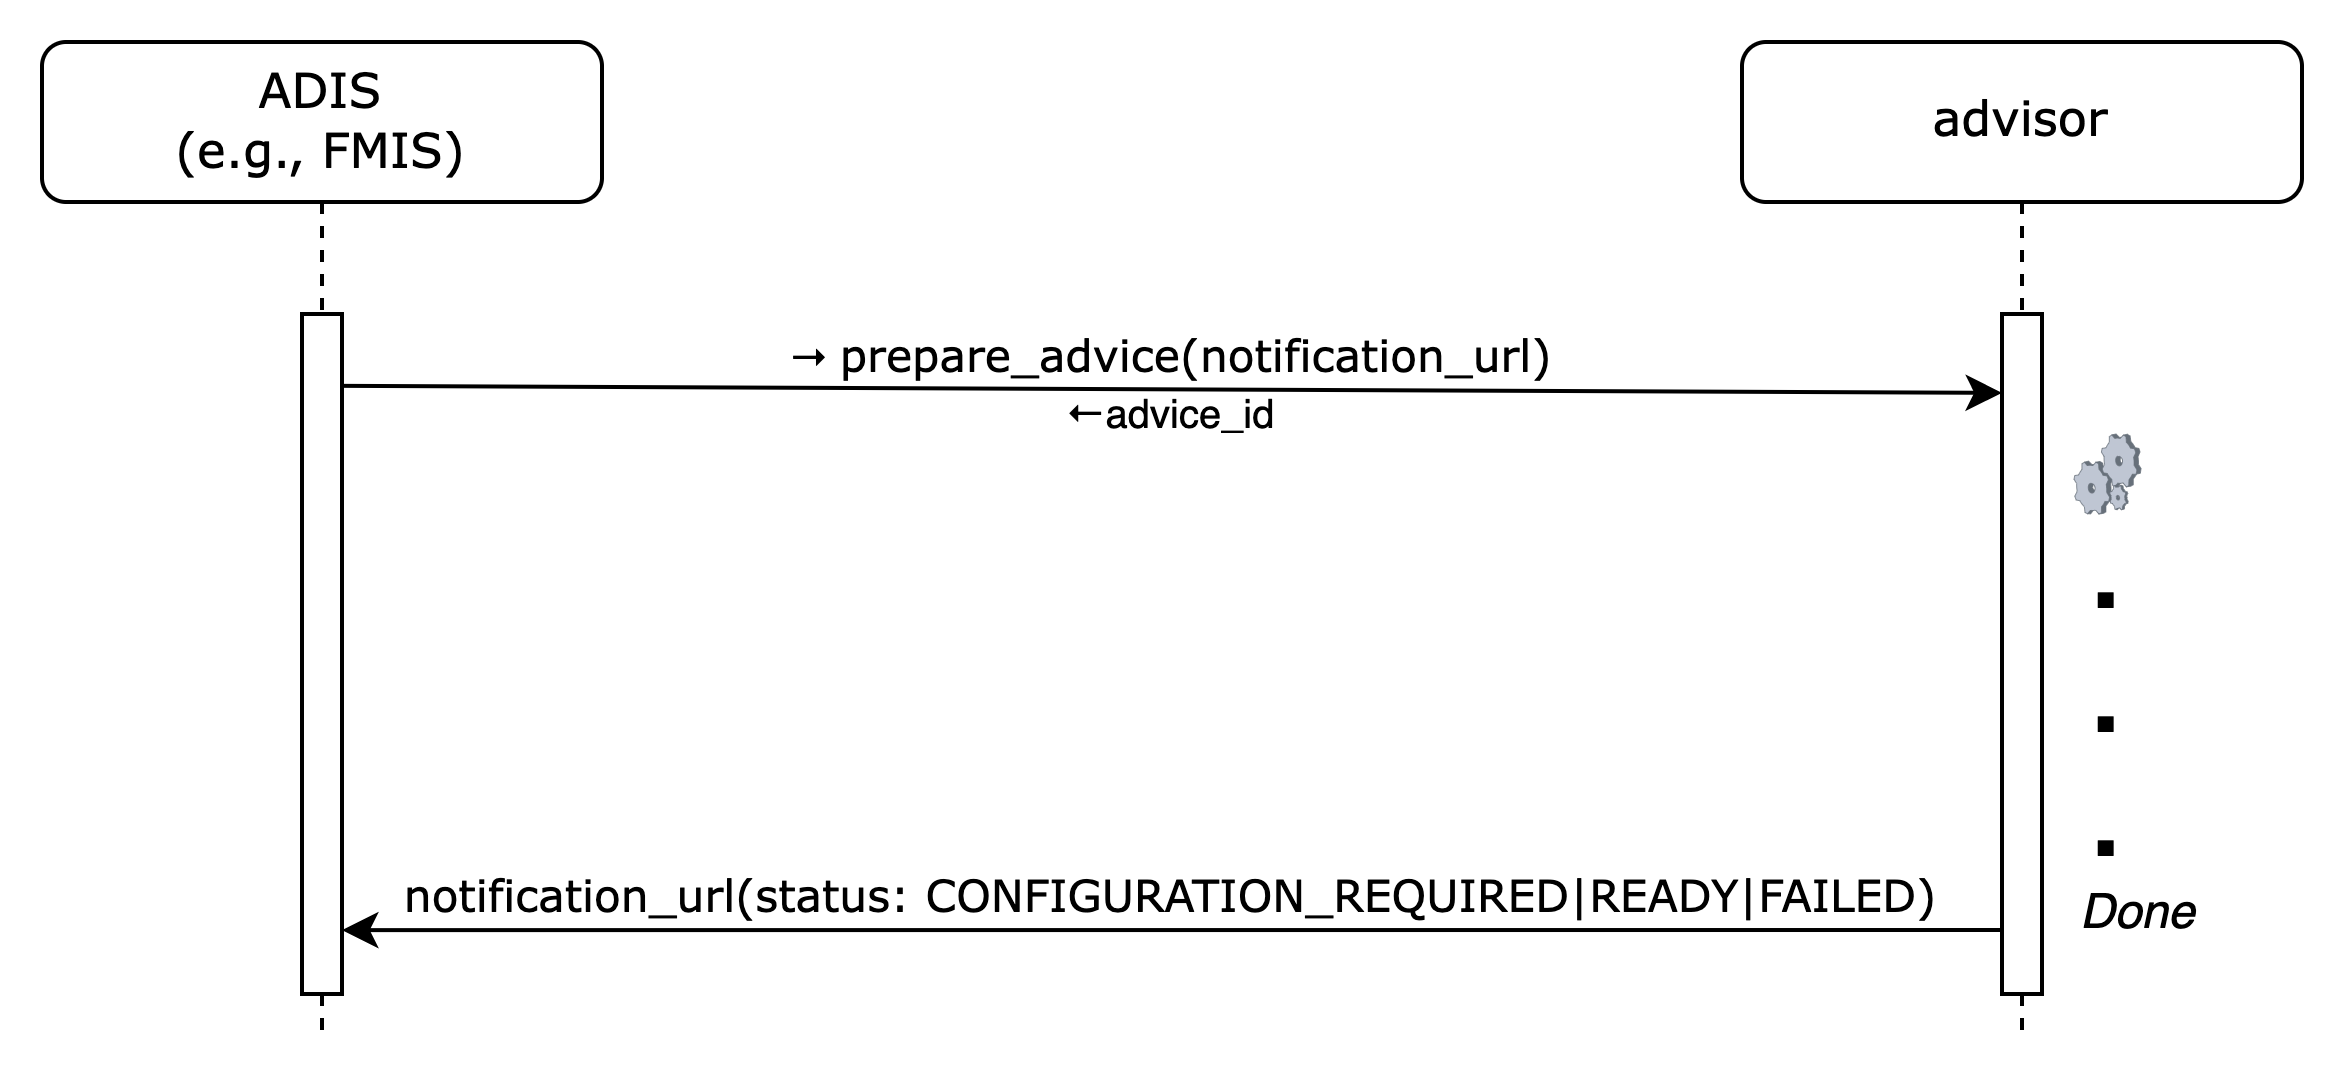
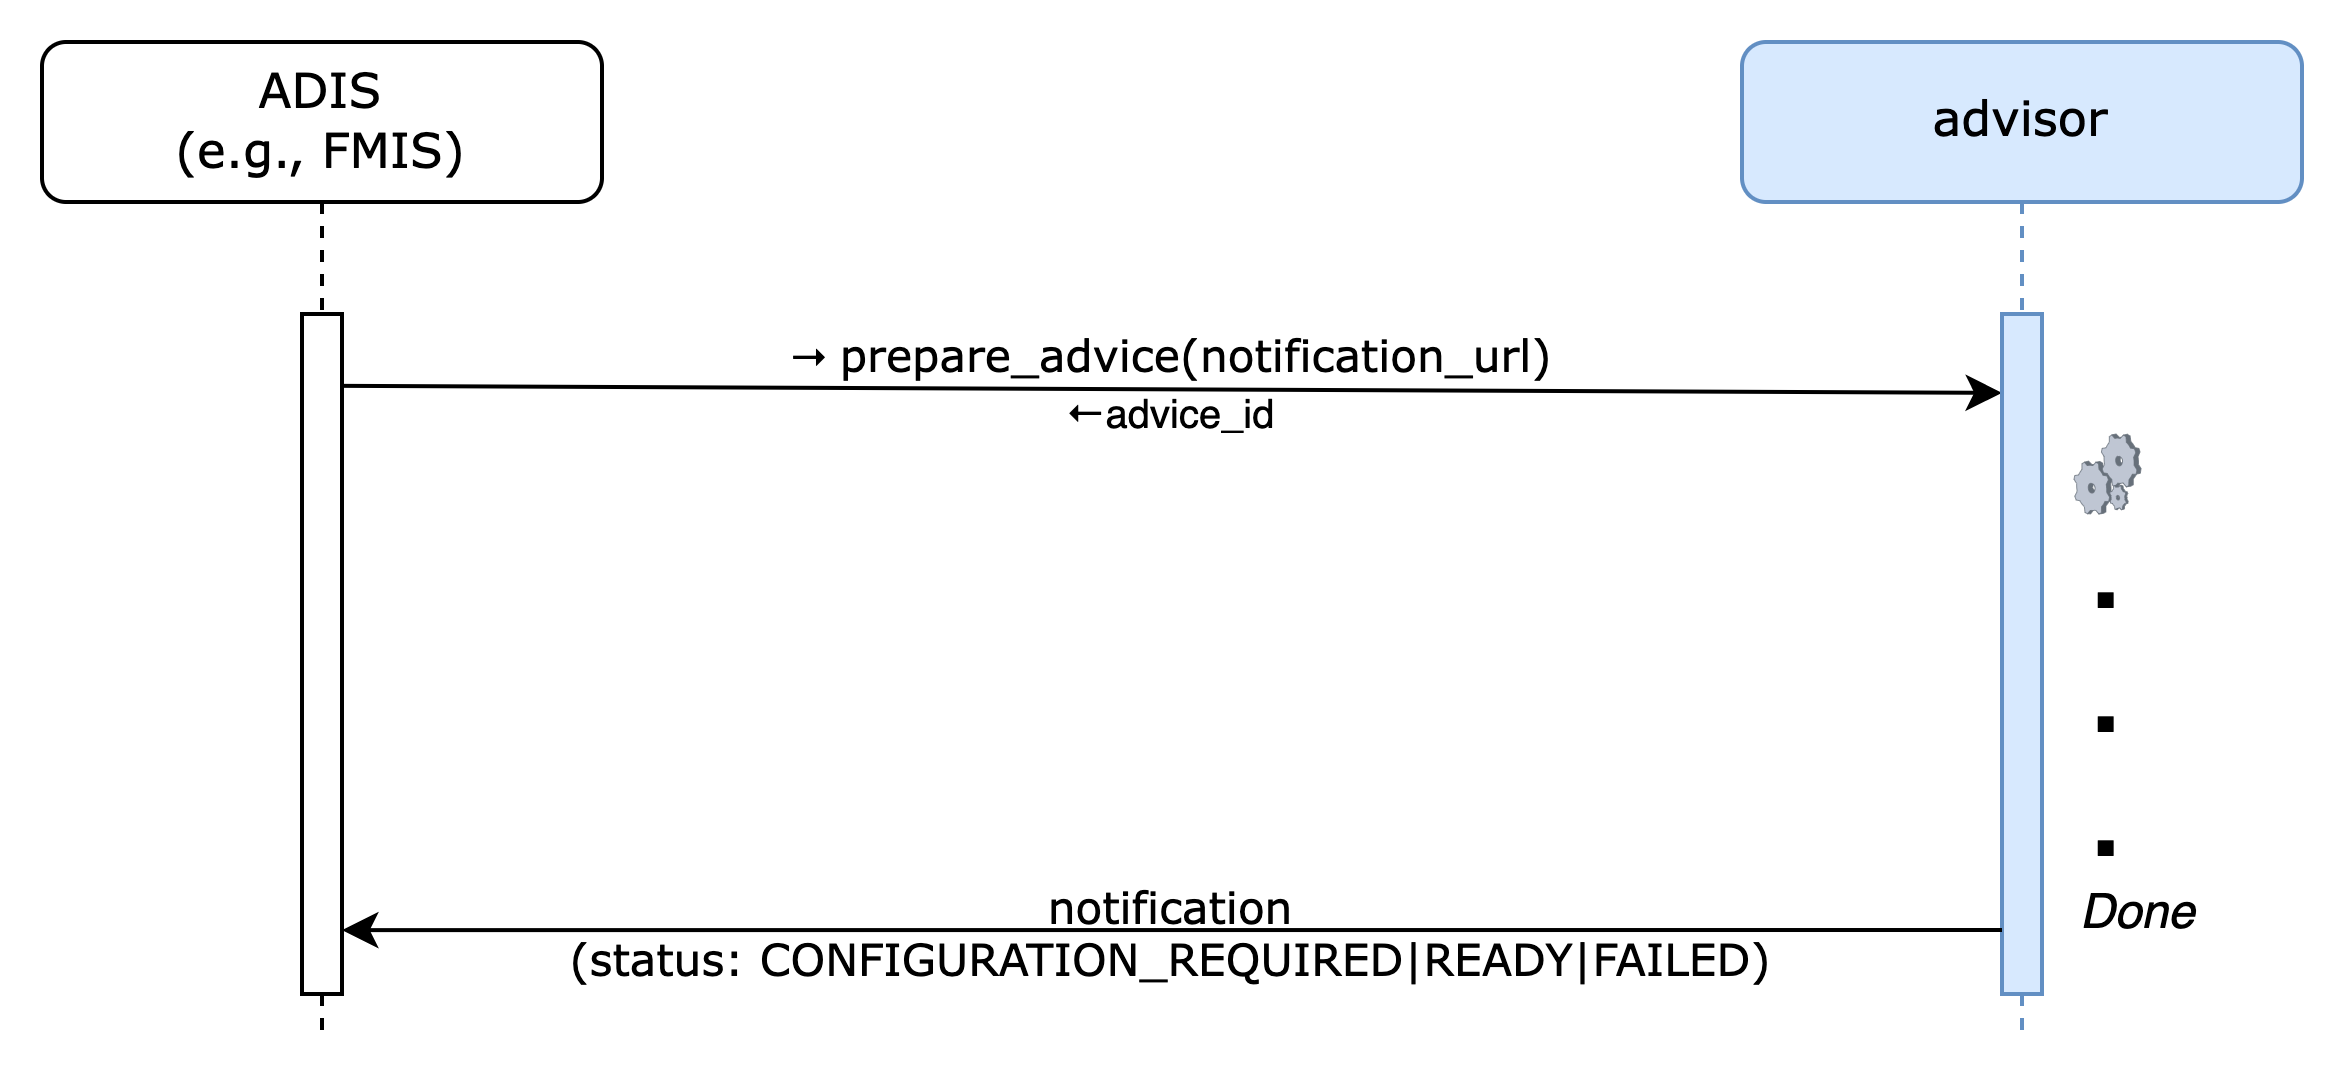
Advisor Lifecycle section

Changed region(s): [[0.1557, 0.276, 0.872, 0.9507], [0.7163, 0.0307, 0.9966, 0.2147]]

diff --git a/doc.html b/doc.html
@@ -46,13 +46,35 @@ both service consumers or service provider implementors:
     - GeoJSON specifications (<a href="https://geojson.org/">https://geojson.org/</a>)
     - GeoPackage specifications (<a href="https://www.geopackage.org/">https://www.geopackage.org/</a>)
 </pre>
-<h2>4 fertilisation_advisor Usage Scenarios</h2>
+<h2>4 The Advisor Lifecycle</h2>
 
-The following sections describe some aspects of the use of fertilisation_advisor. The examples were chosen to illustrate the basic operation of applications using fertilisation_advisor, not to limit what fertilisation_advisor may be used for.
+fertilisation_advisor is an "advisor-type" service template. All such services follow a common pattern that typically (but not always) involves the ATLAS Equipment Centre, and an ATLAS-enabled Digital Information System such as an FMIS, as seen below:
 
 <img src="doc/advisor_pattern.png" style="width: 420px" />
 
-<h2>5 Service Template API Overview</h2>
+The high level flow is: prepare an advice for a farming operation => submit a task with the advice and the equipment that it should be carried with => retrieve the application map from the advice just before sending it to the equipment => carry out the task with the equipment on the field => retrieve the "as applied" information from the equipment and record it on the field_data service
+
+The ADIS will usually have a mirror copy of the fields, preloaded from a field_data service.
+
+If the monitoring functionality is supported by an advisor, in a setup phase, the ADIS may activate the monitoring of a field, providing a notification url. In the operation phase, the ADIS may either poll for recommendations or receive notifications with recommendations from the advisor (see Dynamic Behaviour). The advisor service must be paired with the requested field's field_data service in order to retrieve the field's boundaries and any other information that may be relevant (crop, previous applications, ...)
+
+The ADIS may use recommendations (recommendations are specific to the type of advisor) as the basis of an advice preparation or it may manually decide to prepare an advice based on its own criteria (2).
+
+Depending on service implementations, advice preparations could take milliseconds to hours (in some cases, weeks) to complete. The ADIS will have to either poll the advisor or register a notification_url in the preparation request to determine when an advice is completed and a task may be created (see Dynamic Behaviour).
+
+As an advice is ready, the ADIS will usually let the user select an equipment out of the ones he owns (3) and then submits a task to the ATLAS Equipment Centre, with the advice and the selected equipment as parameters (4). The task is recorded by the ATLAS Equipment Centre but may take an unknown amount of time before it is actually carried out.
+
+When the ATLAS Equipment Centre determines that a task is ready to be executed (available worker and equipment), it retrieves the application map (5), just before starting the task, giving the advisor the opportunity to update potentially pre-computed maps taking latest information (weather, new applications, ...) into account. That information is sent to the tractor (6), and eventually, "as applied" information is sent back (7) to the ATLAS Equipment Centre which then records the application on the appropriate field_data service (8). Note that results may be partial, resulting in multiple applications for a single task.
+
+When the task is finished, it is marked as completed, and a notification is sent back to the ADIS (9), but only if it provided a notification URL. Note that when a notification URL is provided with the task, notifications will also be changed for any status change.
+
+<h2>5 fertilisation_advisor Usage Scenarios</h2>
+
+fertilisation_advisor services are used for soil fertilisation such as lime, potassium, phosphorous, nitrogen, ...
+
+Sophisticated fertilisation_advisor services may also optimize for multiple inter-dependent applications. Most fertilisers contain varying amount of different nutrients that overlap; for instance a phosphorous-rich fertiliser often contains non negligible amounts of potassium and nitrogen. So when an NPK cycle is planned, the ADIS has the option of three application requests within a single advice, each application having a different product and nutrients. The fertilisation_advisor service may then optimize the amounts of product used in each application so as to best satisfy the overall combined nutrient requirements.
+
+<h2>6 Service Template API Overview</h2>
 
 This section provides a very high-level summary of the fertilisation_advisor API:
 <pre>
@@ -83,11 +105,11 @@ Only the most meaningful parameters are discussed in this document. Please refer
 
 fertilisation_advisor services are not required to handle intense traffic from a single client, such as the one that may result from being directly invoked on user interface interactions in an FMIS, for instance. Implementors MAY generate a 429 TOO MANY REQUESTS error response if the rate of calls exceed some pre-defined quota.
 
-<h2>5.1 Nutrient Monitoring Endpoints</h2>
+<h2>6.1 Nutrient Monitoring Endpoints</h2>
 
 These functions relate to registering, and unregistering fields for which alerts are desired. fertilisation_advisor services may provide the means to actively monitor fields and generate alerts when nutrient applications are recommended.
 
-<h2>5.1.1 Monitor Field</h2>
+<h2>6.1.1 Monitor Field</h2>
 
 This endpoint registers a field to be monitored for one or more nutrient requirements by the fertilisation_advisor.
 <pre>
@@ -104,7 +126,7 @@ NOTE: a fertilisation_advisor service MAY not support field monitoring. In that 
 
 See Nutrient Monitoring for details on the monitoring notification process.
 
-<h2>5.1.2 Get monitoring recommendations</h2>
+<h2>6.1.2 Get monitoring recommendations</h2>
 
 This endpoint returns the monitoring recommendations for a field, that is whether a fertilisation_advisor proactively recommends a fertilisation operation to be performed on a monitored field.
 <pre>
@@ -120,7 +142,7 @@ The status may be one of IN_PROGRESS, CONFIGURATION_REQUIRED, READY, FAILED. In 
 
 If the status is READY then there may be one or more recommendations, to perform fertilisation for a monitored nutrient operations on the field.
 
-<h2>5.1.3 Unmonitor field</h2>
+<h2>6.1.3 Unmonitor field</h2>
 
 This endpoint cancels monitoring for a field.
 <pre>
@@ -132,11 +154,11 @@ This endpoint cancels monitoring for a field.
 |     Outputs |                              |
 +-------------+------------------------------+
 </pre>
-<h2>5.2 Advice Endpoints</h2>
+<h2>6.2 Advice Endpoints</h2>
 
 These endpoints relate to the creation of fertilisation advices. An advice may be requested to plan and optimize fertilisation for a one or more related nutrients (e.g. NPK) to be applied on a field.
 
-<h2>5.2.1 Prepare Advice</h2>
+<h2>6.2.1 Prepare Advice</h2>
 
 This endpoint is used to requests an advice to be prepared for specified nutrients and the products that are at disposition.
 
@@ -154,7 +176,7 @@ fertilisation_advisor services may retrieve any relevant information for prepari
 
 Advice preparation may be a lengthy process. Clients may either poll or request to be notified to determine that the advice is READY (see Advice Preparation).
 
-<h2>5.2.2 Get Advice Info</h2>
+<h2>6.2.2 Get Advice Info</h2>
 
 This function returns status information about an advice.
 <pre>
@@ -168,7 +190,7 @@ This function returns status information about an advice.
 </pre>
 In addition to the information submitted when preparing the advice, the advice info also contains a status about the advice preparation which is one of IN_PROGRESS, CONFIGURATION_REQUIRED, READY, FAILED. In this context, the IN_PROGRESS status indicates that some background processing is still being carried out and that the advice is not yet. The CONFIGURATION_REQUIRED status indicates that the end-user is required to perform some manual configuration on the service’s proprietary UI in order to enable the completion of the requested advice.
 
-<h2>5.2.3 Cancel Advice</h2>
+<h2>6.2.3 Cancel Advice</h2>
 <pre>
 +--------------------------------------------+
 | cancel_advice                              |
@@ -180,7 +202,7 @@ In addition to the information submitted when preparing the advice, the advice i
 </pre>
 Invoking this endpoint causes the advice status to become FAILED. If an advice that is not yet in READY state is cancelled and if a notification URL was provided in the prepare_advice request, a notification MUST be dispatched.
 
-<h2>5.2.4 Get Application Info</h2>
+<h2>6.2.4 Get Application Info</h2>
 
 This endpoint may only be performed on advices whose status is READY. It returns a download URL to the application map and the total estimated amount of product needed carry out the application.
 <pre>
@@ -198,11 +220,11 @@ The status may be one of IN_PROGRESS, CONFIGURATION_REQUIRED, READY, FAILED. In 
 
 For maximum accuracy, the application map is requested in a "just-in-time" fashion by the ATLAS Equipment Centre (or any other consumer) to give an opportunity to advisors to make adjustments to their pre-computed preparation. However, since this information is usually requested just as farmers are about to go out on the field to perform a task, it is important that it is computed in a short time (maximum, few seconds). Any potentially time-consuming processing must be pre-computed and cached internally during the registration and/or preparation stages.
 
-<h2>6 Data Formats</h2>
+<h2>7 Data Formats</h2>
 
 This section focuses on the description of binary (file) data formats. Please refer to the fertilisation_advisor OpenAPI specifications for details on all other payload and parameter descriptions.
 
-<h2>6.1	Product Application File Format</h2>
+<h2>7.1	Product Application File Format</h2>
 
 Nutrient Application data MUST be in GeoPackage (<a href="https://www.geopackage.org">https://www.geopackage.org</a>) format version 1.2 or newer.
 <pre>
@@ -349,7 +371,7 @@ Fertilization "application_info.info" is a JSON object serialized as a string, s
 The units of the "product" data table are in application_info.info.product.unit" units.
 
 
-<h2>7 Access and Authentication</h2>
+<h2>8 Access and Authentication</h2>
 
 Farmers MUST have an account setup on an advisor service in order to authenticate and access API endpoints. The service implementor is responsible for the creation of accounts; it is not covered in the service template specifications.
 
@@ -357,21 +379,17 @@ Unless specifically documented in the OpenAPI specifications, all API calls must
 
 Some of the information held by advisor services may be considered sensitive from a GDPR perspective. The service's authorization server SHOULD request the client's end-user consent at service pairing time in order to deliver an access token.
 
-<h2>8 Dynamic Behaviour</h2>
+<h2>9 Dynamic Behaviour</h2>
 
 The purpose of the diagrams in this section is to illustrate communication patterns, more complex than plain request/response API calls, that involve several interactions and/or asynchronous behaviour. Even though a sequence diagram representation is used, the diagrams are by no means to be interpreted as UML Sequence Diagrams. Specifically, in the spirit of focusing on functional behaviour and readability, error handling is deliberately not covered in the diagrams.
 
-<h2>8.1	Fertilisation Lifecycle</h2>
+The dynamic behaviour is similar for most advisor-type service templates (see The Advisor Lifecycle).
 
-The "Fertilisation lifecycle" in ATLAS typically operates in a larger context involving three services and an end-user application such as an FMIS which, in collaboration, provide an end-to-end solution from algorithmically computed advices to actual operations performed on a field.
-
-<img src="doc/advisor_lifecycle.png" style="width: 420px" />
-
-<h2>8.2 Advice Preparation</h2>
+<h2>9.2 Advice Preparation</h2>
 
 There are two methods for determining whether an advice preparation has completed (successfully or unsuccessfully): by polling the advice_info endpoint or by notification.
 
-<h2>8.2.1 Polling</h2>
+<h2>9.2.1 Polling</h2>
 
 After requesting an advice preparation, the client polls the advice_info endpoint at regular intervals until the returned status is READY or FAILED.
 
@@ -379,7 +397,7 @@ The status may be CONFIGURATION_REQUIRED which indicates that a user action is r
 
 <img src="doc/advice_polling.png" style="width: 420px" />
 
-<h2>8.2.2 Notification</h2>
+<h2>9.2.2 Notification</h2>
 
 If a notification URL was supplied on the prepare_advice endpoint, it will be invoked by the advisor when the preparation status changes.
 
@@ -387,25 +405,25 @@ If a notification URL was supplied on the prepare_advice endpoint, it will be in
 
 Advisors MUST invoke the notification URL supplied by the client with an HTTPS POST command. The payload will be identical to the one that would be returned by the advice_info request.
 
-<h2>8.3 Field Monitoring</h2>
+<h2>9.3 Field Monitoring</h2>
 
-Advanced advisors have the ability to monitor conditions on fields in the background and proactively generate crop protection recommendations. There are two methods for determining whether recommendations are available: by polling the monitoring_info endpoint or by notification.
+Advanced advisors have the ability to monitor conditions on fields in the background and proactively generate fertilisation recommendations. There are two methods for determining whether recommendations are available: by polling the monitoring_info endpoint or by notification.
 
-<h2>8.3.1 Polling</h2>
+<h2>9.3.1 Polling</h2>
 
 After requesting a field to be monitored, the client polls monitoring_info endpoint at regular intervals to check whether any 'recommendations' are available.
 
 <img src="doc/monitoring_polling.png" style="width: 420px" />
 
-<h2>8.3.2 Notification</h2>
+<h2>9.3.2 Notification</h2>
 
 If a notification URL was supplied on the monitor_field endpoint, it will be invoked by the advisor when a new recommendation becomes available.
 
 <img src="doc/monitoring_notification.png" style="width: 420px" />
 
-Advisors MUST invoke the notification URL supplied by the client with an HTTPS POST command. The payload will be as defined in the OpenAPI 'Recommendation' specifications.
+Advisors MUST invoke the notification URL supplied by the client with an HTTPS POST command. The payload will be an array of recommendations (as defined in the OpenAPI 'Recommendation' specifications).
 
-<h2>8.4 General Comments on Notifications</h2>
+<h2>9.4 General Comments on Notifications</h2>
 
 Services must provide best efforts to deliver notifications. A notification is considered successful if the target returns an http result code 2XX.
 
